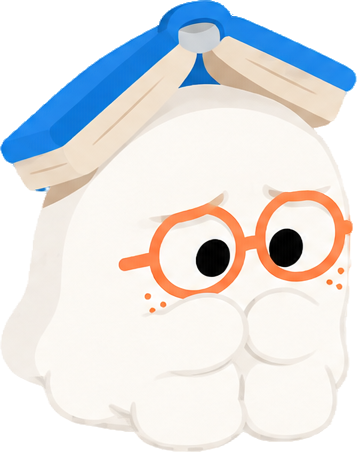
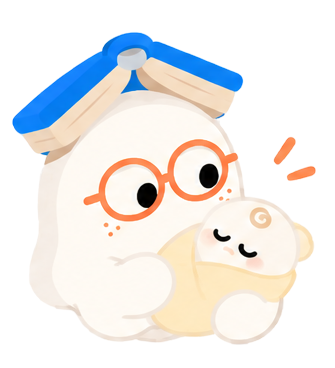
feat: 홈 초록 카드를 '가족 · 동생이 태어났어요' 새 디자인으로 변경

diff --git a/src/features/home/scenarios.jsx b/src/features/home/scenarios.jsx
@@ -6,7 +6,7 @@ import scenarioHabit from '../../assets/images/home/mascot-corner.png';
 // 홈의 추천 카드와 '부모들의 이야기' 목록이 함께 쓰는 시나리오 목록이에요.
 export const scenarios = [
   { id: 'friend', category: '친구 관계', accessibleTitle: '친구가 장난감을 빼앗았어요', title: <>친구가 장난감을<br />빼앗았어요</>, description: '아이에게 어떻게 말해줘야 할까요?', image: scenarioFriend, color: 'friend', accentColor: '#ff7c68' },
-  { id: 'emotion', category: '감정 표현', accessibleTitle: '속상해도 아무 말 하지 않을 때', title: <>속상해도 아무 말<br />하지 않을 때</>, description: '아이의 마음을 어떻게 물어볼까요?', image: scenarioEmotion, color: 'emotion', accentColor: '#65d0a5' },
+  { id: 'emotion', category: '가족', accessibleTitle: '동생이 태어났어요', title: '동생이 태어났어요', description: '아이의 마음을 어떻게 물어볼까요?', image: scenarioEmotion, color: 'emotion', accentColor: '#65d0a5' },
   { id: 'kindergarten', category: '새로운 환경', accessibleTitle: '유치원에 가기 싫다고 할 때', title: <>유치원에 가기<br />싫다고 할 때</>, description: '어떤 말로 안심시켜 줄까요?', image: scenarioKindergarten, color: 'kindergarten', accentColor: '#ffcf55' },
   { id: 'habit', category: '생활 습관', accessibleTitle: '실수하고 자꾸 숨기려고 할 때', title: <>실수하고 자꾸<br />숨기려고 할 때</>, description: '어떤 말로 안심시켜 줄까요?', image: scenarioHabit, color: 'habit', accentColor: '#9e95ff' },
 ];

diff --git a/src/pages/DashboardPage/DashboardPage.module.css b/src/pages/DashboardPage/DashboardPage.module.css
@@ -239,10 +239,10 @@
 }
 
 .emotion .cardImage {
-  bottom: 13px;
-  left: 73px;
-  width: 90px;
-  height: 114px;
+  bottom: 12.2px;
+  left: 63.4px;
+  width: 124px;
+  height: 136.4px;
 }
 
 .kindergarten .cardImage {
@@ -351,10 +351,10 @@
   }
 
   .emotion .cardImage {
-    bottom: clamp(11px, 1.5vh, 13px);
-    left: clamp(60px, 8.39vh, 73px);
-    width: clamp(74px, 10.34vh, 90px);
-    height: clamp(93px, 13.1vh, 114px);
+    bottom: clamp(10px, 1.4vh, 12.2px);
+    left: clamp(51.9px, 7.29vh, 63.4px);
+    width: clamp(101.5px, 14.26vh, 124px);
+    height: clamp(111.6px, 15.68vh, 136.4px);
   }
 
   .kindergarten .cardImage {
@@ -469,10 +469,10 @@
   }
 
   .emotion .cardImage {
-    bottom: 12px;
-    left: 67px;
-    width: 83px;
-    height: 105px;
+    bottom: 11.2px;
+    left: 58.3px;
+    width: 114.1px;
+    height: 125.5px;
   }
 
   .kindergarten .cardImage {

diff --git a/src/pages/ScenarioListPage/ScenarioListPage.module.css b/src/pages/ScenarioListPage/ScenarioListPage.module.css
@@ -233,10 +233,10 @@
 }
 
 .emotion .cardImage {
-  bottom: calc(13 * var(--u));
-  left: calc(73 * var(--u));
-  width: calc(90 * var(--u));
-  height: calc(114 * var(--u));
+  bottom: calc(12.2 * var(--u));
+  left: calc(63.4 * var(--u));
+  width: calc(124 * var(--u));
+  height: calc(136.4 * var(--u));
 }
 
 .kindergarten .cardImage {
